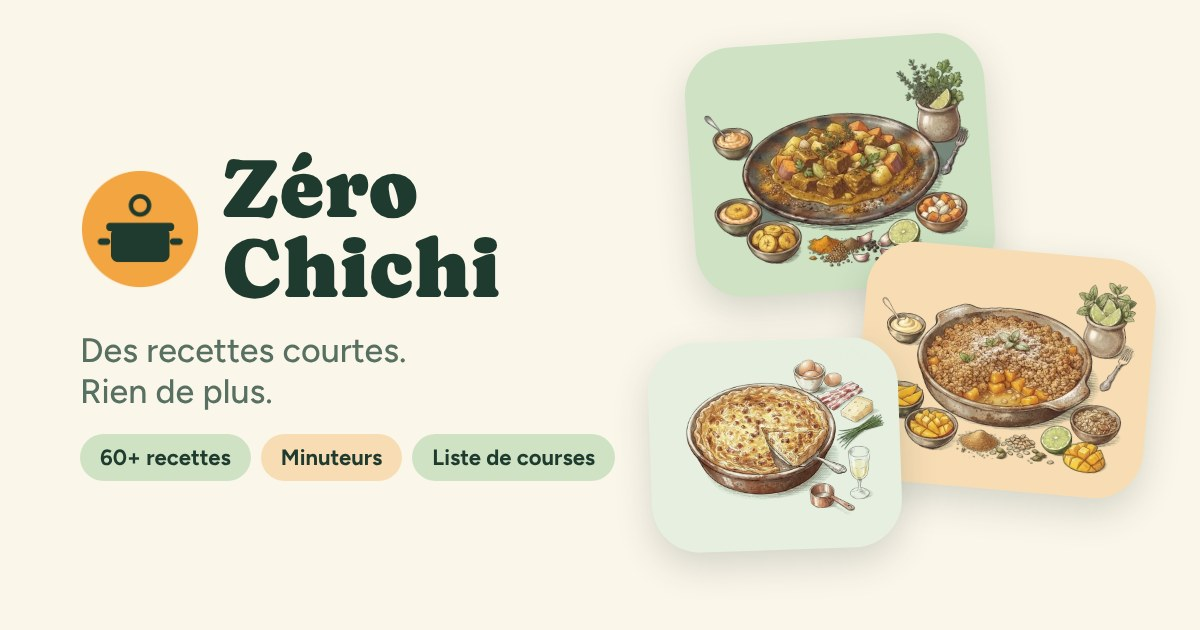
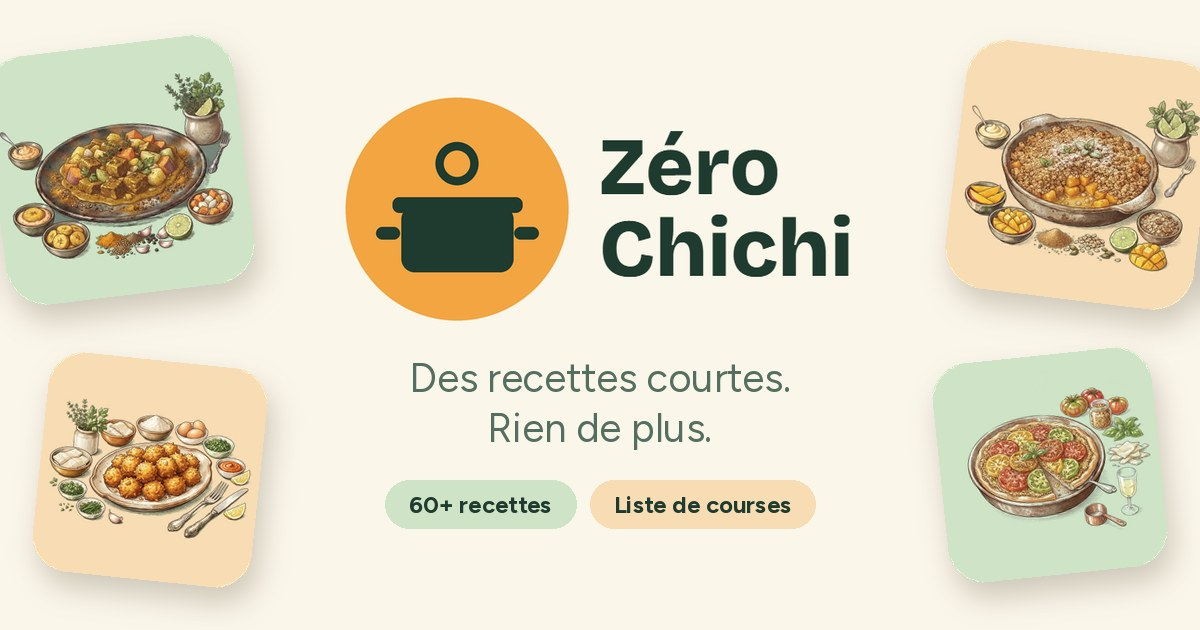
Image de partage : tout l'essentiel au centre pour rester entière quel que soit le recadrage (Facebook, WhatsApp, Messages…)
Claude-Session: https://claude.ai/code/session_016ZXYdX5ywotUYaD9ycYfou

diff --git a/index.html b/index.html
@@ -12,11 +12,14 @@
     <meta property="og:url" content="https://philbass.github.io/zero-chichi/" />
     <meta property="og:title" content="Zéro Chichi" />
     <meta property="og:description" content="Des recettes courtes. Rien de plus. Une appli de cuisine à installer sur ton téléphone." />
-    <meta property="og:image" content="https://philbass.github.io/zero-chichi/og-image.jpg" />
+    <meta property="og:image" content="https://philbass.github.io/zero-chichi/og-image.jpg?v=2" />
+    <meta property="og:image:secure_url" content="https://philbass.github.io/zero-chichi/og-image.jpg?v=2" />
+    <meta property="og:image:type" content="image/jpeg" />
     <meta property="og:image:width" content="1200" />
     <meta property="og:image:height" content="630" />
     <meta property="og:image:alt" content="Zéro Chichi : des recettes courtes, rien de plus." />
     <meta name="twitter:card" content="summary_large_image" />
+    <meta name="twitter:image" content="https://philbass.github.io/zero-chichi/og-image.jpg?v=2" />
     <meta name="apple-mobile-web-app-capable" content="yes" />
     <meta name="mobile-web-app-capable" content="yes" />
     <meta name="apple-mobile-web-app-status-bar-style" content="default" />
